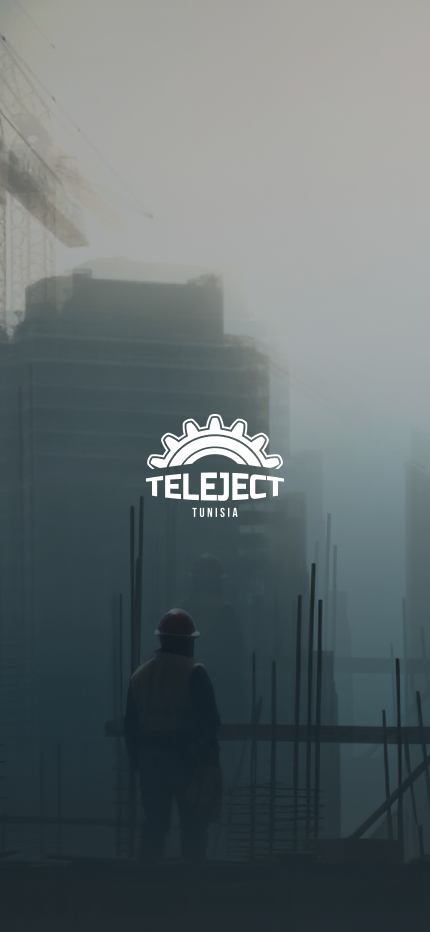
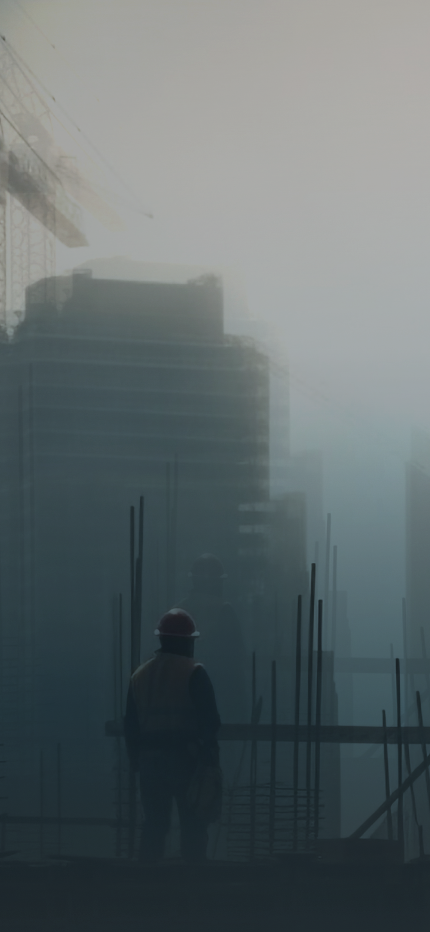
Add splash screen animation and update project ignore files
- Introduced a new `.vscode/easycode.ignore` file to specify patterns for files and directories that should be ignored by certain tools or processes, enhancing project organization and build efficiency.
- Updated the `assets/images/backGround.png` to a new version, likely to improve the visual appeal or performance of the splash screen.
- Enhanced the `splash_controller.dart` by adding an animation controller and sliding animation for the splash screen, improving user experience with a dynamic introduction to the app.
- Modified the `splash_view.dart` to integrate the new animation, ensuring the splash screen utilizes the sliding animation effectively.

Changed region(s): [[0.3326, 0.4356, 0.6651, 0.5601]]

diff --git a/lib/app/modules/splash/views/splash_view.dart b/lib/app/modules/splash/views/splash_view.dart
@@ -12,11 +12,25 @@ class SplashView extends GetView<SplashController> {
   Widget build(BuildContext context) {
     return Scaffold(
       body: Container(
-        decoration: const BoxDecoration(
-          image: DecorationImage(
-              image: AssetImage(Assets.imagesbackground), fit: BoxFit.cover),
-        ),
-      ),
+          width: double.infinity,
+          height: double.infinity,
+          decoration: const BoxDecoration(
+            image: DecorationImage(
+                image: AssetImage(Assets.imagesbackground), fit: BoxFit.cover),
+          ),
+          child: AnimatedBuilder(
+            animation: controller.slidingAnimation,
+            builder: (context, _) {
+              return SlideTransition(
+                position: controller.slidingAnimation,
+                child: Center(
+                  child: SvgPicture.asset(
+                    Assets.imagesSplshIcon,
+                  ),
+                ),
+              );
+            },
+          )),
     );
   }
 }

diff --git a/lib/app/modules/splash/controllers/splash_controller.dart b/lib/app/modules/splash/controllers/splash_controller.dart
@@ -1,23 +1,29 @@
+import 'package:flutter/material.dart';
 import 'package:get/get.dart';
 
-class SplashController extends GetxController {
-  //TODO: Implement SplashController
+class SplashController extends GetxController
+    with GetSingleTickerProviderStateMixin {
+  final Duration duration = const Duration(seconds: 6);
+  late AnimationController animationController;
+  late Animation<Offset> slidingAnimation;
 
-  final count = 0.obs;
   @override
   void onInit() {
     super.onInit();
-  }
 
-  @override
-  void onReady() {
-    super.onReady();
+    animationController = AnimationController(
+      vsync: this,
+      duration: duration,
+    );
+    slidingAnimation =
+        Tween<Offset>(begin: const Offset(0, 6), end: Offset.zero)
+            .animate(animationController);
+    animationController.forward();
   }
 
   @override
   void onClose() {
     super.onClose();
+    animationController.dispose();
   }
-
-  void increment() => count.value++;
 }
